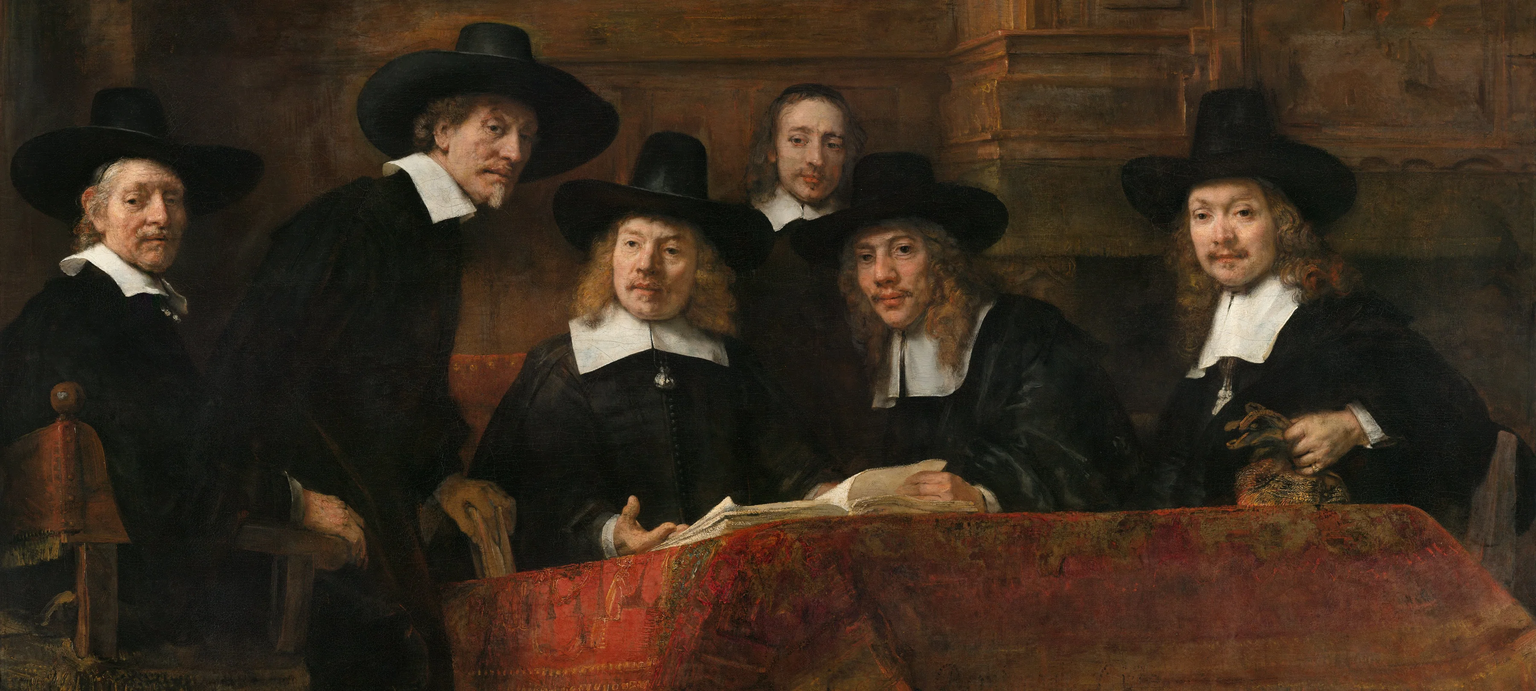
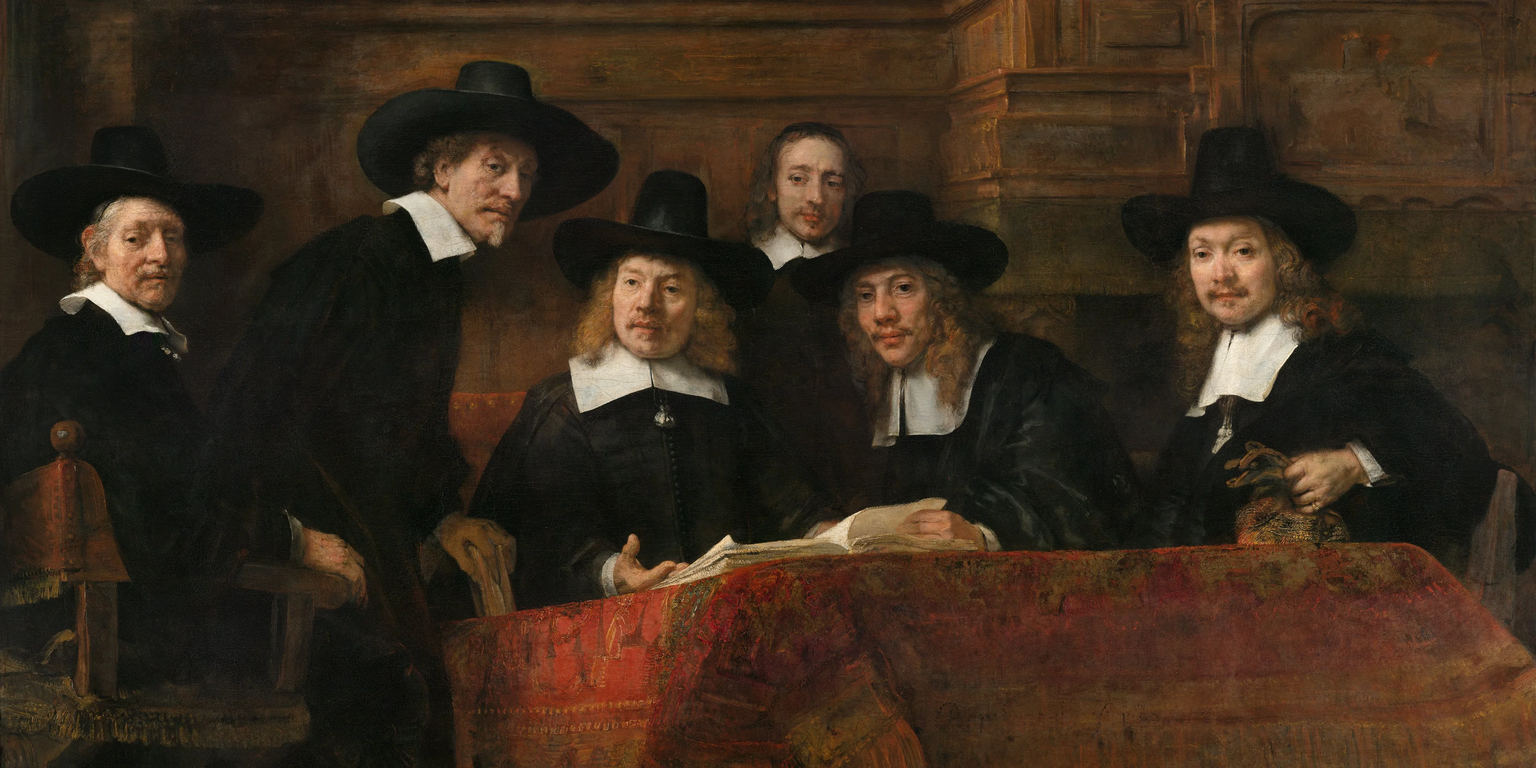
feat: a taller plate, and four hues far enough apart to tell apart
Two problems, both measured rather than felt.

The plates were cut to 20:9, which is too shallow a letterbox for canvases
this upright. It left the Geographer no headroom above his head and reduced
the Constable's sky to a strip. The fix is not a different crop: each plate
already used the full width of its source, so the only lever for a wider
field of view was a taller box. 50vw is exactly 2:1, and it buys about
eleven percent more of every painting. Keeper gains air above the hats,
conductor gains its sky back, thinker gains both headroom and the far edge
of the table, so the man and the chart he is working now read as one mass
rather than two. Two anchors moved with it: reporter to 0.78, which lifts
the whole figure clear of the top edge, and thinker to 0.56.

The palettes were four browns, and the reason is worth recording so nobody
re-derives them the same way. Sampling the plates for their dominant hue
returns 7 to 52 degrees for all three paintings, because that is what aged
varnish does, and the fourth plate has no chroma at all: zero pixels above
a tenth of saturation. So the hues are chosen rather than averaged. Each
painting takes the note it genuinely owns instead of the note that covers
the most pixels. Keeper takes the red of the table carpet, which measures
0.65 saturation and is the loudest colour anywhere in the set although it is
only a tenth of that plate's chroma. Thinker takes the ochre that is 83
[…]

diff --git a/docs/stylesheets/theme.css b/docs/stylesheets/theme.css
@@ -1,15 +1,21 @@
-/* Material palette for keeper, drawn from its own plate: the deep red of the table carpet.
+/* Material palette for keeper, drawn from its own plate: crimson, the red of the table carpet.
    Matte on purpose. The header should read as the same surface as the
-   painting below it, not as a band of product colour sitting on top. */
+   painting below it, not as a band of product colour sitting on top.
+
+   The four hues are pushed apart on purpose. Measured, three of the plates
+   sit inside one warm band from 7 to 52 degrees, because varnish does that
+   to an old painting, and the fourth has no chroma at all. Sampling alone
+   would have produced four browns, so each takes the note it genuinely owns
+   and the greyscale plate takes the cool gap. */
 :root > * {
-  --md-primary-fg-color:        #271816;
-  --md-primary-fg-color--light: #3f2927;
-  --md-primary-fg-color--dark:  #1b100e;
-  --md-accent-fg-color:         #ac736c;
-  --md-accent-fg-color--transparent: #ac736c1a;
+  --md-primary-fg-color:        #291614;
+  --md-primary-fg-color--light: #422624;
+  --md-primary-fg-color--dark:  #1c0e0d;
+  --md-accent-fg-color:         #b36a65;
+  --md-accent-fg-color--transparent: #b36a651a;
 }
 
 [data-md-color-scheme="slate"] {
-  --md-default-bg-color: #110e0d;
-  --md-typeset-a-color:  #ac736c;
+  --md-default-bg-color: #120d0c;
+  --md-typeset-a-color:  #b36a65;
 }

diff --git a/docs/stylesheets/hero.css b/docs/stylesheets/hero.css
@@ -1,5 +1,5 @@
 /* Landing-page hero. Full-bleed plate, left wash, editorial masthead.
-   The image files are pre-cropped to 20:9 at a per-painting anchor, so this
+   The image files are pre-cropped to 2:1 at a per-painting anchor, so this
    sheet only has to place type over them and keep it legible. */
 
 .hero {
@@ -9,11 +9,12 @@
      would clip that sliver away. */
   overflow: visible;
   background: var(--md-default-bg-color);
-  /* 45vw is exactly 20:9, the aspect the plates are cut to, so `cover` throws
-     nothing away between roughly 850px and 2300px of viewport. The old fixed
-     660px cap meant a 1920px screen saw only 68 percent of the plate height
-     and a 2560px screen barely half, which is what was cutting off heads. */
-  height: clamp(380px, 45vw, 1040px);
+  /* 50vw is exactly 2:1, the aspect the plates are cut to, so `cover` throws
+     nothing away between roughly 760px and 2080px of viewport. The plates were
+     cut to 20:9 first, and that letterbox was too shallow for canvases this
+     upright: it left the Geographer no headroom and reduced the Constable's
+     sky to a strip. */
+  height: clamp(380px, 50vw, 1040px);
   margin-top: -1px;
 }
 
